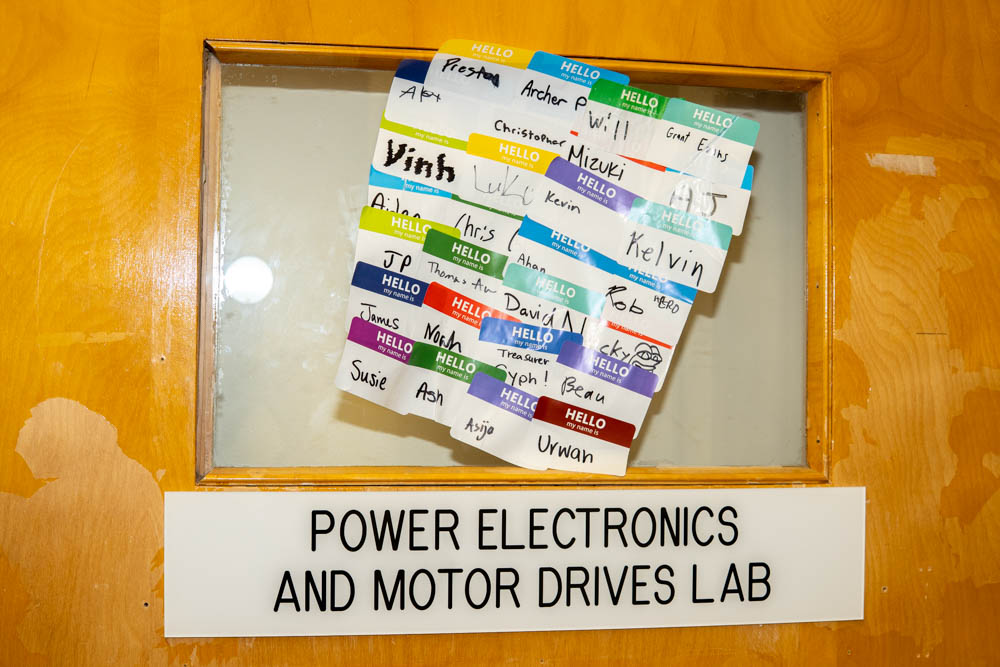
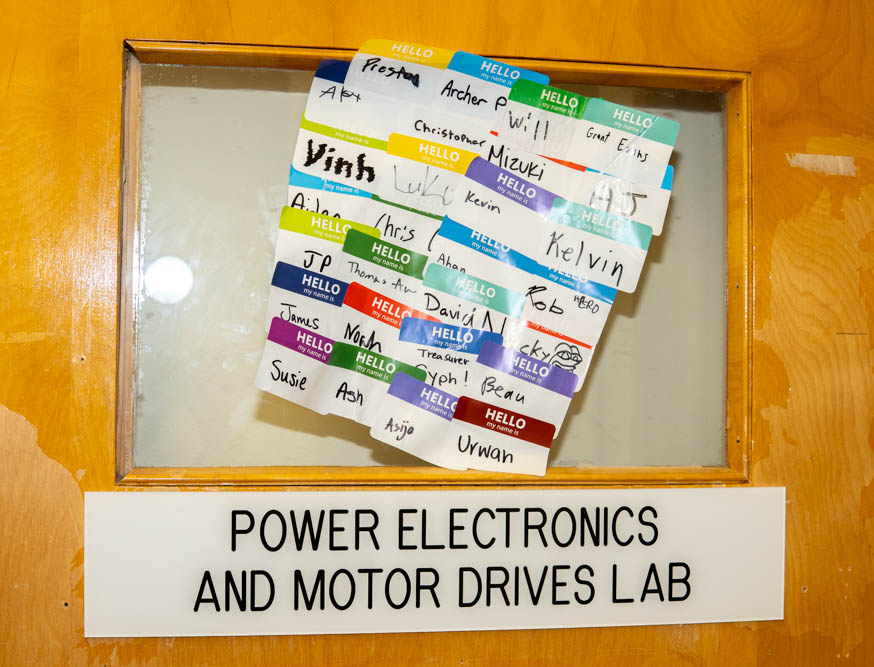
feat: add more images to scroll collage

diff --git a/src/assets/images/Join/index.ts b/src/assets/images/Join/index.ts
@@ -1,18 +1,21 @@
 import AllOurNames from "./CollageLoop/allournames.jpg"
 import CompCamp from "./CollageLoop/compcamp.jpg"
-import FunnyComp from "./CollageLoop/funnycomp.jpg"
 import Kart from "./CollageLoop/kart.jpg"
 import Sammy from "./CollageLoop/sammy.jpg"
 import Spread from "./CollageLoop/spread.jpg"
-import BuildCar from "./CollageLoop/tristan.jpg"
+import Yianni from "./CollageLoop/yianni.jpg"
+import Urwah from "./CollageLoop/urwahpresents.jpg"
+import wtf from "./CollageLoop/wtf.jpg"
+import AJURWAH from "./CollageLoop/AJURWAH.jpg"
 
 export const CollageLoop = {
     Collage1 : AllOurNames,
     Collage2 : CompCamp,
-    Collage3 : FunnyComp,
     Collage4 : Kart,
     Collage5 : Sammy,
     Collage6 : Spread,
-    Collage7 : BuildCar,
-    
+    Collage8 : Yianni,
+    Collage9 : Urwah,
+    Collage10 : wtf,
+    Collage11 : AJURWAH
 }
